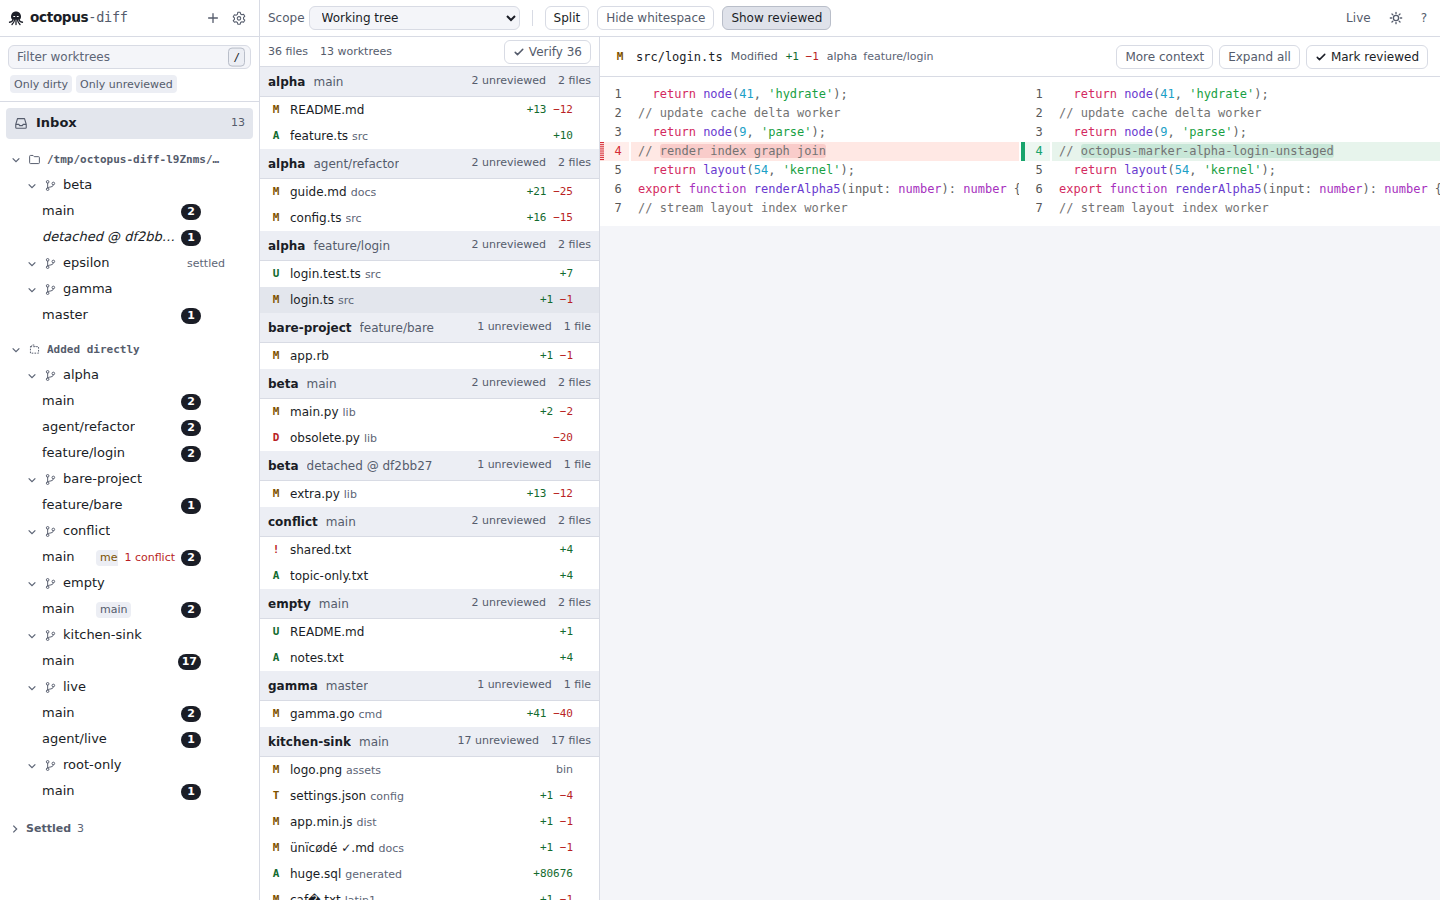
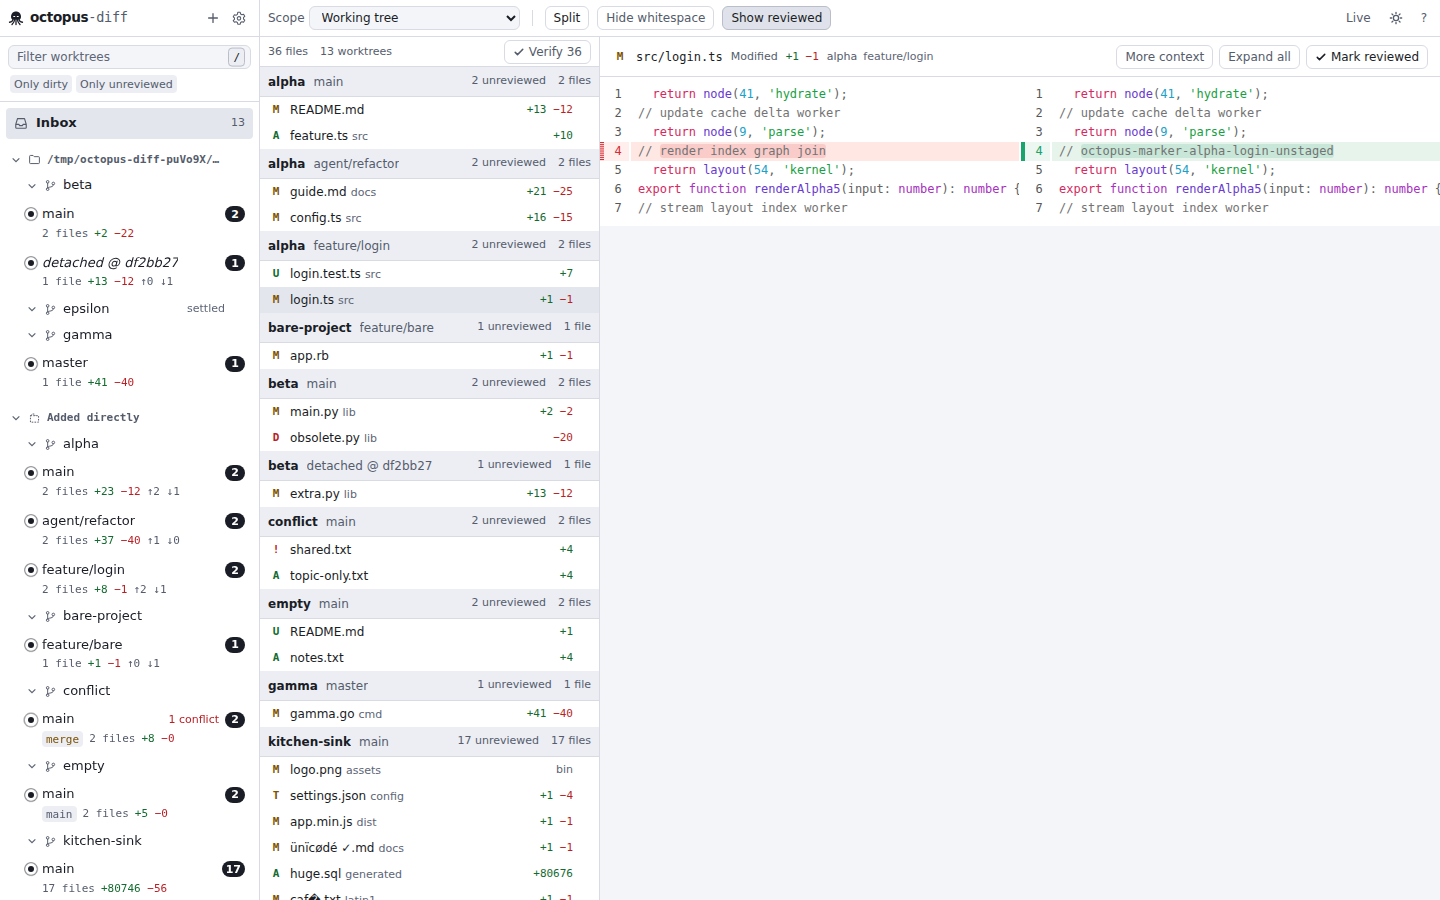
web: worktree rows are cards (branch line, meta line, project line outside the folder), hover swaps the status for Settle and the menu, a hover card with the details; docs: decision #53, identity, README, report, screenshots

diff --git a/apps/web/src/components/Sidebar.tsx b/apps/web/src/components/Sidebar.tsx
@@ -4,7 +4,7 @@ import {
   reviewTargetKey,
   TEST_IDS,
 } from '@octopus-diff/contracts';
-import { memo, type ReactNode, useEffect, useState } from 'react';
+import { memo, type ReactNode, useEffect, useRef, useState } from 'react';
 import {
   useRemoveProject,
   useRemoveScanRoot,
@@ -109,29 +109,7 @@ function rowAttributes(row: WorktreeRow, selected: boolean, active: boolean) {
   };
 }
 
-/** The tooltip carries the facts the row no longer shows: path, files, lines, ahead/behind. */
-function rowTitle(row: WorktreeRow): string {
-  const { summary, error } = row;
-  const lines = [row.worktree.path];
-  if (summary) {
-    const facts: string[] = [];
-    if (isDirtySummary(summary)) facts.push(plural(summary.changedFiles, 'file'));
-    if (summary.additions > 0 || summary.deletions > 0) {
-      facts.push(`+${summary.additions} −${summary.deletions}`);
-    }
-    if (summary.ahead !== null && summary.behind !== null && summary.aheadBehindRef) {
-      facts.push(`↑${summary.ahead} ↓${summary.behind} vs ${summary.aheadBehindRef}`);
-    }
-    if (facts.length > 0) lines.push(facts.join(' · '));
-  }
-  if (error) lines.push(error.message);
-  if (row.settledBy === 'user') {
-    lines.push(row.state === 'settled' ? 'Settled by hand' : 'Un-settled by hand');
-  }
-  return lines.join('\n');
-}
-
-/** `main`, the worktree source, an in-progress operation: the chips after the name. */
+/** `main` (off the default branch), the worktree source, an in-progress operation. */
 function RowChips({ row }: { row: WorktreeRow }) {
   const { worktree, summary, project } = row;
   const source = worktree.isMain ? null : worktreeSource(worktree.path);
@@ -173,15 +151,16 @@ function ReviewOffBadge({ row }: { row: WorktreeRow }) {
 }
 
 /**
- * The status slot at the right of a row: the unreviewed pill (the one filled shape), `N
- * conflicts` for blocked work, or one word for a settled or un-settled row.
+ * The status slot at the top right of a card: the unreviewed pill (the one filled shape), `N
+ * conflicts` for blocked work, or one word for a settled or un-settled row. Hover swaps it for
+ * the actions, as T3 Code swaps the time for "Settle".
  */
 function RowStatus({ row }: { row: WorktreeRow }) {
   const counts = row.summary?.counts;
   const word = settledWord(row);
   const quiet = row.state === 'settled' || row.state === 'active';
   return (
-    <span className="flex shrink-0 items-center gap-1.5 text-[11px]">
+    <span className="ml-auto flex shrink-0 items-center gap-1.5 text-[11px] group-focus-within/wt:invisible group-hover/wt:invisible">
       {!row.review.enabled && <ReviewOffBadge row={row} />}
       {counts && counts.conflicted > 0 && (
         <span className="text-danger">{plural(counts.conflicted, 'conflict')}</span>
@@ -192,10 +171,7 @@ function RowStatus({ row }: { row: WorktreeRow }) {
         </span>
       )}
       {quiet && word !== 'review off' && (
-        <span
-          className={word === 'missing' || word === 'error' ? 'text-danger' : 'text-faint'}
-          title={word === 'error' && row.error ? row.error.message : undefined}
-        >
+        <span className={word === 'missing' || word === 'error' ? 'text-danger' : 'text-faint'}>
           {word === 'loading' ? '…' : word}
         </span>
       )}
@@ -203,16 +179,165 @@ function RowStatus({ row }: { row: WorktreeRow }) {
   );
 }
 
+/** The facts of the meta line (and the hover card): files, lines, ahead/behind. */
+function rowFacts(row: WorktreeRow): { files?: string; lines?: [number, number]; sync?: string } {
+  const s = row.summary;
+  if (!s) return {};
+  return {
+    ...(isDirtySummary(s) ? { files: plural(s.changedFiles, 'file') } : {}),
+    ...(s.additions > 0 || s.deletions > 0
+      ? { lines: [s.additions, s.deletions] as [number, number] }
+      : {}),
+    ...(s.ahead !== null && s.behind !== null && s.ahead + s.behind > 0
+      ? { sync: `↑${s.ahead} ↓${s.behind}` }
+      : {}),
+  };
+}
+
+/** The meta line under the branch: chips, then the facts in mono. Omitted when it would be empty. */
+function RowMeta({ row }: { row: WorktreeRow }) {
+  const { worktree, summary, project } = row;
+  const facts = rowFacts(row);
+  const hasChip =
+    (worktree.isMain && worktree.branch !== project.defaultBranch) ||
+    (!worktree.isMain && worktreeSource(worktree.path) !== null) ||
+    summary?.inProgress;
+  if (!hasChip && !facts.files && !facts.lines && !facts.sync) return null;
+  return (
+    <span className="flex min-w-0 items-center gap-1.5 overflow-hidden font-mono text-[11px] whitespace-nowrap text-muted">
+      <RowChips row={row} />
+      {facts.files && <span>{facts.files}</span>}
+      {facts.lines && (
+        <span>
+          <span className="text-add">+{facts.lines[0]}</span>{' '}
+          <span className="text-del">−{facts.lines[1]}</span>
+        </span>
+      )}
+      {facts.sync && (
+        <span title={summary?.aheadBehindRef ? `vs ${summary.aheadBehindRef}` : undefined}>
+          {facts.sync}
+        </span>
+      )}
+    </span>
+  );
+}
+
+/** Shows a card after a short hover, anchored to the right of the row (T3 Code's row tooltip). */
+function useHoverCard(delayMs = 450) {
+  const [at, setAt] = useState<{ x: number; y: number } | null>(null);
+  const timer = useRef<ReturnType<typeof setTimeout> | null>(null);
+  const clear = () => {
+    if (timer.current) clearTimeout(timer.current);
+    timer.current = null;
+  };
+  const hide = () => {
+    clear();
+    setAt(null);
+  };
+  // Unmount while a timer is pending (a row that settles mid-hover): drop it.
+  useEffect(() => {
+    const pending = timer;
+    return () => {
+      if (pending.current) clearTimeout(pending.current);
+    };
+  }, []);
+  const onPointerEnter = (e: React.PointerEvent<HTMLElement>) => {
+    if (e.pointerType !== 'mouse') return;
+    const rect = e.currentTarget.getBoundingClientRect();
+    clear();
+    timer.current = setTimeout(() => {
+      setAt({ x: rect.right + 8, y: Math.max(8, Math.min(rect.top, window.innerHeight - 240)) });
+    }, delayMs);
+  };
+  return { at, onPointerEnter, onPointerLeave: hide, onPointerDown: hide };
+}
+
+/**
+ * The details a row does not show: branch, project, path, source, facts, review policy and the
+ * manual settle. Fixed-positioned so the sidebar's scroll clip cannot cut it off.
+ */
+function RowHoverCard({ row, at }: { row: WorktreeRow; at: { x: number; y: number } }) {
+  const { worktree, summary, error, project, review } = row;
+  const source = worktree.isMain ? null : worktreeSource(worktree.path);
+  const facts = rowFacts(row);
+  const word = settledWord(row);
+  const line = (label: string, value: ReactNode) => (
+    <div className="flex gap-2">
+      <dt className="w-14 shrink-0 text-faint">{label}</dt>
+      <dd className="min-w-0 flex-1 break-all">{value}</dd>
+    </div>
+  );
+  return (
+    <div
+      role="tooltip"
+      className="od-overlay od-fade-in pointer-events-none fixed z-50 w-[320px] rounded-md p-2.5 text-xs text-fg"
+      style={{ left: at.x, top: at.y }}
+    >
+      <div className="mb-1.5 flex items-baseline gap-1.5">
+        <span className="min-w-0 truncate font-medium">{worktreeLabel(worktree)}</span>
+        <span className="ml-auto shrink-0 text-[11px] text-muted">
+          {row.state === 'blocked'
+            ? 'blocked'
+            : row.state === 'attention'
+              ? `${row.unreviewed} unreviewed`
+              : word}
+        </span>
+      </div>
+      <dl className="flex flex-col gap-0.5">
+        {line('Project', project.name)}
+        {line('Path', <span className="font-mono text-[11px]">{worktree.path}</span>)}
+        {source && line('Source', source.title)}
+        {worktree.isMain && line('Checkout', 'main checkout')}
+        {summary?.inProgress && line('Operation', `${summary.inProgress} in progress`)}
+        {summary &&
+          (facts.files || facts.lines) &&
+          line(
+            'Changes',
+            <span className="font-mono text-[11px]">
+              {facts.files ?? 'no files'}
+              {facts.lines && (
+                <>
+                  {' '}
+                  <span className="text-add">+{facts.lines[0]}</span>{' '}
+                  <span className="text-del">−{facts.lines[1]}</span>
+                </>
+              )}
+            </span>,
+          )}
+        {summary &&
+          summary.ahead !== null &&
+          summary.behind !== null &&
+          line(
+            'Sync',
+            <span className="font-mono text-[11px]">
+              ↑{summary.ahead} ↓{summary.behind}
+              {summary.aheadBehindRef ? ` vs ${summary.aheadBehindRef}` : ''}
+            </span>,
+          )}
+        {line('Review', review.enabled ? 'on' : `off (from ${review.source})`)}
+        {row.settledBy === 'user' &&
+          line(
+            'Settled',
+            row.state === 'settled' ? 'by hand, until it changes' : 'un-settled by hand',
+          )}
+        {error && line('Error', <span className="text-danger">{error.message}</span>)}
+      </dl>
+    </div>
+  );
+}
+
+// Room at the left for the activity pulse (14 px before the branch) in every variant.
 const ROW_INDENT: Record<RowVariant, string> = {
-  pinned: 'pl-2',
+  pinned: 'pl-6',
   folder: 'pl-9',
-  settled: 'pl-2',
+  settled: 'pl-6',
 };
 
 /**
- * One worktree. Under a project it says only its branch; pinned and settled rows, which sit
- * outside their project, say project then branch. Hover (or focus) reveals the settle check and
- * the `⋯` menu at the right; the status slot stays where it is.
+ * One worktree as a card (T3 Code's row anatomy). Under a project: the branch with the status
+ * slot, then the meta line. Pinned and settled rows sit outside their project, so they start
+ * with a project line (repo glyph and name). Hover or focus swaps the status slot for the
+ * actions (`Settle` / `Un-settle`, `⋯`) and, after a moment, shows the hover card.
  */
 const WorktreeItem = memo(function WorktreeItem({
   row,
@@ -229,46 +354,57 @@ const WorktreeItem = memo(function WorktreeItem({
   const blocked = row.state === 'blocked';
   const canSettle = summary !== null && !blocked;
   const settleLabel = settled ? 'Un-settle worktree' : 'Settle worktree';
+  const inFolder = variant === 'folder';
+  const hover = useHoverCard();
   return (
-    <li className="group/wt relative" data-section={variant}>
+    <li
+      className="group/wt relative"
+      data-section={variant}
+      onPointerEnter={hover.onPointerEnter}
+      onPointerLeave={hover.onPointerLeave}
+      onPointerDown={hover.onPointerDown}
+    >
       <button
         type="button"
         {...rowAttributes(row, selected, active)}
-        title={rowTitle(row)}
         onClick={() => onSelect(worktree.id)}
         onContextMenu={(e) => onMenu(e, row)}
-        className={`flex h-[var(--od-row)] w-full items-center gap-1.5 rounded-sm pr-[52px] text-left ${
+        className={`flex w-full flex-col gap-0.5 rounded-md py-1.5 pr-2 text-left ${
           ROW_INDENT[variant]
         } ${selected ? 'bg-selected text-fg' : 'hover:bg-hover'} ${
           settled && !selected ? 'text-muted hover:text-fg' : ''
         }`}
       >
-        <span className="relative flex min-w-0 flex-1 items-baseline gap-1.5 overflow-hidden">
+        {!inFolder && (
+          <span className="flex w-full items-center gap-1.5 text-[11px] text-muted">
+            <RepoIcon />
+            <span className="min-w-0 truncate">{row.project.name}</span>
+            <RowStatus row={row} />
+          </span>
+        )}
+        <span className="relative flex w-full items-center gap-1.5">
           {active && <span className="od-pulse" aria-hidden="true" />}
-          {variant !== 'folder' && (
-            <span className="min-w-0 shrink truncate font-medium">{row.project.name}</span>
-          )}
           <span
-            className={`min-w-[3rem] truncate ${
-              variant === 'folder' ? 'shrink text-fg' : 'shrink-[2] text-muted'
-            } ${worktree.branch ? '' : 'italic'}`}
+            className={`min-w-0 truncate ${inFolder ? 'font-medium' : ''} ${
+              worktree.branch ? '' : 'italic'
+            }`}
           >
             {worktreeLabel(worktree)}
           </span>
-          <RowChips row={row} />
+          {inFolder && <RowStatus row={row} />}
         </span>
-        <RowStatus row={row} />
+        <RowMeta row={row} />
       </button>
-      <span className="absolute top-1/2 right-1 flex -translate-y-1/2 items-center gap-0.5 opacity-0 focus-within:opacity-100 group-hover/wt:opacity-100">
+      <span className="absolute top-1.5 right-1.5 flex h-4 items-center gap-0.5 opacity-0 focus-within:opacity-100 group-hover/wt:opacity-100">
         {canSettle && (
           <button
             type="button"
             aria-label={settleLabel}
-            title={settleLabel}
             onClick={() => onSettle(row)}
-            className="flex h-5 w-5 items-center justify-center rounded-sm text-faint hover:bg-raised hover:text-fg"
+            className="flex h-5 items-center gap-1 rounded-sm px-1 text-[11px] text-muted hover:bg-raised hover:text-fg"
           >
             {settled ? <UndoIcon /> : <CheckIcon />}
+            {settled ? 'Un-settle' : 'Settle'}
           </button>
         )}
         <MoreButton
@@ -276,6 +412,7 @@ const WorktreeItem = memo(function WorktreeItem({
           onOpen={(e) => onMenu(e, row)}
         />
       </span>
+      {hover.at && <RowHoverCard row={row} at={hover.at} />}
     </li>
   );
 });

diff --git a/docs/design/IDENTITY.md b/docs/design/IDENTITY.md
@@ -122,7 +122,7 @@ Shared by all themes; defined once in `apps/web/src/styles.css` as `--od-*` cust
 - **Focus ring**: 2 px solid `focus`, 1 px offset, on `:focus-visible` only, instant. Inside dark surfaces the ring colour is lighter than the accent so it keeps 3:1 against `selected`. Text selection is `accentSoft`; the caret is `fg`.
 - **Icons**: one stroke set on a 16-unit grid, 1.5 px stroke, round caps, `currentColor`, drawn in `components/bits.tsx` (close, more, sun, moon, warning, check) plus `Mark`. Never a font glyph for a control (☾ ✕ ⋯ ⚠ render as emoji or in a different weight depending on the platform). Arrows inside data (`↑2 ↓1`, `old → new`) are text in the mono face.
 - **State is a word, not a dot.** No status dots: a settled worktree says one word (`clean`, `verified`, `review off`, `missing`, `error`); a card says `3 files`, `1 conflict`; the connection says `Live`, `Offline` or `Refreshing…`; the review chip says `Review on` or `Review off`. Colour-only dots broke the product's own rule that colour is never the only signal. The one dot left is the activity pulse (`.od-pulse`): a live state, shown for ten seconds after a worktree changes, with a static dot under reduced motion.
-- **The sidebar is folders, open rows and one shelf** (DECISIONS "UX round 4"). Inbox; **Pinned** (label only when something is pinned); then each folder (scan root) as a header in the 11 px label face with its path in mono, a chevron and, while closed, a `faint` worktree count and the pill; under it each project as a header (chevron, repo glyph, name at 500, the same hidden stats while closed, the word `settled` when nothing is open); under that the project's open worktrees as one-line rows at `--od-row` height that say only the branch (italic `detached` when there is none), chips (`main`, source, in-progress operation), and at the right the status slot: the unreviewed pill, `1 conflict` in danger, or one `faint` word. Hover or focus reveals two 20 px icon buttons at the right of a row: settle (check) or un-settle (undo arrow), and `⋯`; headers reveal only `⋯`. **Settled** at the bottom is a shelf header with a count, closed by default; its rows are the same one-line rows in `muted`, with project then branch because they sit outside their project. The pill is the only filled shape; nothing reorders on activity; a closed shelf still shows the selected row. Files, lines and ahead/behind live in the row's tooltip and in the Overview, not in the row.
+- **The sidebar is folders, cards and one shelf** (DECISIONS "UX round 4", #47–#53). Inbox; **Pinned** (label only when something is pinned); then each folder (scan root) as a header in the 11 px label face with its path in mono, a chevron and, while closed, a `faint` worktree count and the pill; under it each project as a header (chevron, repo glyph, name at 500, the same hidden stats while closed, the word `settled` when nothing is open); under that the project's open worktrees as **cards** with a 6 px radius and no border: line one is the branch at 500 (italic `detached` when there is none) with the status slot at the right (the unreviewed pill, `1 conflict` in danger, or one `faint` word); line two is the meta line in mono 11 px `muted` (chips `main` / source / in-progress operation, `N files`, `+a −d`, `↑x ↓y`), left out when empty. Pinned and settled cards sit outside their project, so they start with a project line (repo glyph, name, 11 px `muted`) that carries the status slot instead. Hover or focus swaps the status slot for the actions: `✓ Settle` or `↶ Un-settle` as 11 px text buttons and `⋯`. After a moment of hover, a hover card (elevation 2, 320 px, to the right of the row) lists the details as a definition list with 11 px `faint` labels. **Settled** at the bottom is a shelf header with a count, closed by default; its cards are in `muted`. The pill is the only filled shape; nothing reorders on activity; a closed shelf still shows the selected row.
 - **No boxes for numbers.** Summary figures are set as a definition list (number over label, hairlines above and below), never as a grid of tiles.
 - **Density**: `data-density="compact" | "comfortable"` on the root (a per-device preference). It changes only `--od-row` (26 / 30 px), `--od-pad-x` (8 / 10 px) and the base font size (13 / 13.5 px). Compact is the default: the product is for people who have thirty worktrees open.
 

diff --git a/docs/DECISIONS.md b/docs/DECISIONS.md
@@ -1119,6 +1119,20 @@ look off, worktrees cannot be settled and the settled ones still show; follow th
     reorder. No auto-settle after N days (needs the daemon's change timestamp, #46). No project favicons (T3 Code
     reads a favicon per project; we draw one repo glyph). No "Working" shelf: the activity pulse already marks a
     worktree an agent is writing to, and rows do not reorder.
+53. **Rows are cards with T3 Code's anatomy, plus a hover card.** The user's screenshot of a settled row
+    (`octopu… feat/fol… t3 clean ↶ ⋯`) against T3 Code's card (project line, title line, meta line, a popup with the
+    details) made the one-line row untenable: at 260 px, project, branch, chips, word and two hover buttons fought for
+    one line and everything truncated. Now every worktree is a card: under a project, the branch (500) with the
+    status slot at its right, then a meta line in mono 11 px (`main` / source / in-progress chips, `N files`,
+    `+a −d`, `↑x ↓y`), omitted when empty (T3's `metaLineEmpty`); pinned and settled rows, which sit outside their
+    project, start with a project line (repo glyph, name, the status slot). Hover or focus swaps the status slot for
+    the actions (`✓ Settle` / `↶ Un-settle` and `⋯`), as T3 swaps the time for "Settle", so nothing is pushed off the
+    row. After 450 ms of mouse hover a fixed-positioned card to the right of the row (`role="tooltip"`, `.od-overlay`)
+    lists branch, state, project, path, source, checkout, operation, changes, sync vs the ahead/behind ref, review
+    policy, the manual settle and any error (T3's `SidebarThreadTooltip`); it never takes pointer events and goes on
+    pointer-down, so it cannot get in the way of a click. The native `title` on rows is gone (the card replaced it;
+    folder and project headers keep theirs for the e2e suite). The facts that round 4 had moved to the tooltip are
+    visible again on the meta line.
 
 
 ## Credits for open-source software (lead, 2026-11-08)

diff --git a/docs/reports/ux-sidebar.md b/docs/reports/ux-sidebar.md
@@ -110,7 +110,8 @@ drag to settle.
 | Inbox → **To review** cards (project + branch repeated on every card, a facts line) → **Settled** tail (open by default) → **Projects** index | Inbox → **Pinned** → folders (collapsible headers) → projects (collapsible headers, repo glyph) → one-line rows with only the branch → **Settled** shelf, closed by default, showing the selected row while closed |
 | Settling only through review marks | A check on hover / focus settles a row by hand; an undo arrow un-settles; `Settle` / `Un-settle` in the row menu; blocked rows have neither (disabled `Settle (blocked)`). Held by `stateHash`; the next change to the worktree drops it |
 | Footer button "Watch a folder or add a repository"; two `od-btn` toggles under the filter | `+` icon in the header next to Settings (same test id); the two filters as chips (`ToggleButton variant="chip"`) |
-| Project rows in an index with a count and the pill | Project headers show the hidden count and pill while closed, the word `settled` when every worktree settled; files, `+a −d` and ahead/behind moved to the row tooltip |
+| Project rows in an index with a count and the pill | Project headers show the hidden count and pill while closed, the word `settled` when every worktree settled |
+| One-line rows (after the first pass of this round: project, branch, chips, word and two hover buttons on 260 px) | Cards with T3 Code's anatomy (#53): branch line with the status slot, meta line (chips, files, `+a −d`, `↑x ↓y`), a project line on pinned and settled cards; hover swaps the status for `✓ Settle` / `↶ Un-settle` and `⋯`; a hover card lists the details |
 
 Model: `RowState = blocked | attention | active | settled`, `rowState()` takes a `SettleOverride`, `WorktreeRow.settledBy`,
 `ProjectGroup.active`, `SidebarModel.pinned`/`settled`/`order` (folder order). Prefs: `settle: SettleOverride[]`,

diff --git a/README.md b/README.md
@@ -127,7 +127,8 @@ Settings → Folders → **Start browsing in** sets where the picker opens (defa
   project whose worktrees all settled just says `settled`. Hover a row for the check that settles it by hand
   (or the arrow that brings it back); the next change to that worktree un-settles it automatically, as does a
   new patch after you verified everything. Blocked work never settles. Click a folder or repository for its
-  Overview, right-click (or `⋯`) for the actions, and pin a worktree to keep it at the top.
+  Overview, right-click (or `⋯`) for the actions, and pin a worktree to keep it at the top. Each worktree is a
+  small card: the branch, then its files, `+adds −dels` and ahead/behind; hover a moment for the full details.
 - **Mark all as verified.** The button above the file list marks every file you can see (respecting the
   sidebar filters); in the Inbox it marks everything. `Shift+R` does the same from the keyboard, and the
   context menu of a worktree, project or folder (and the folder Overview) can mark that whole level, or
